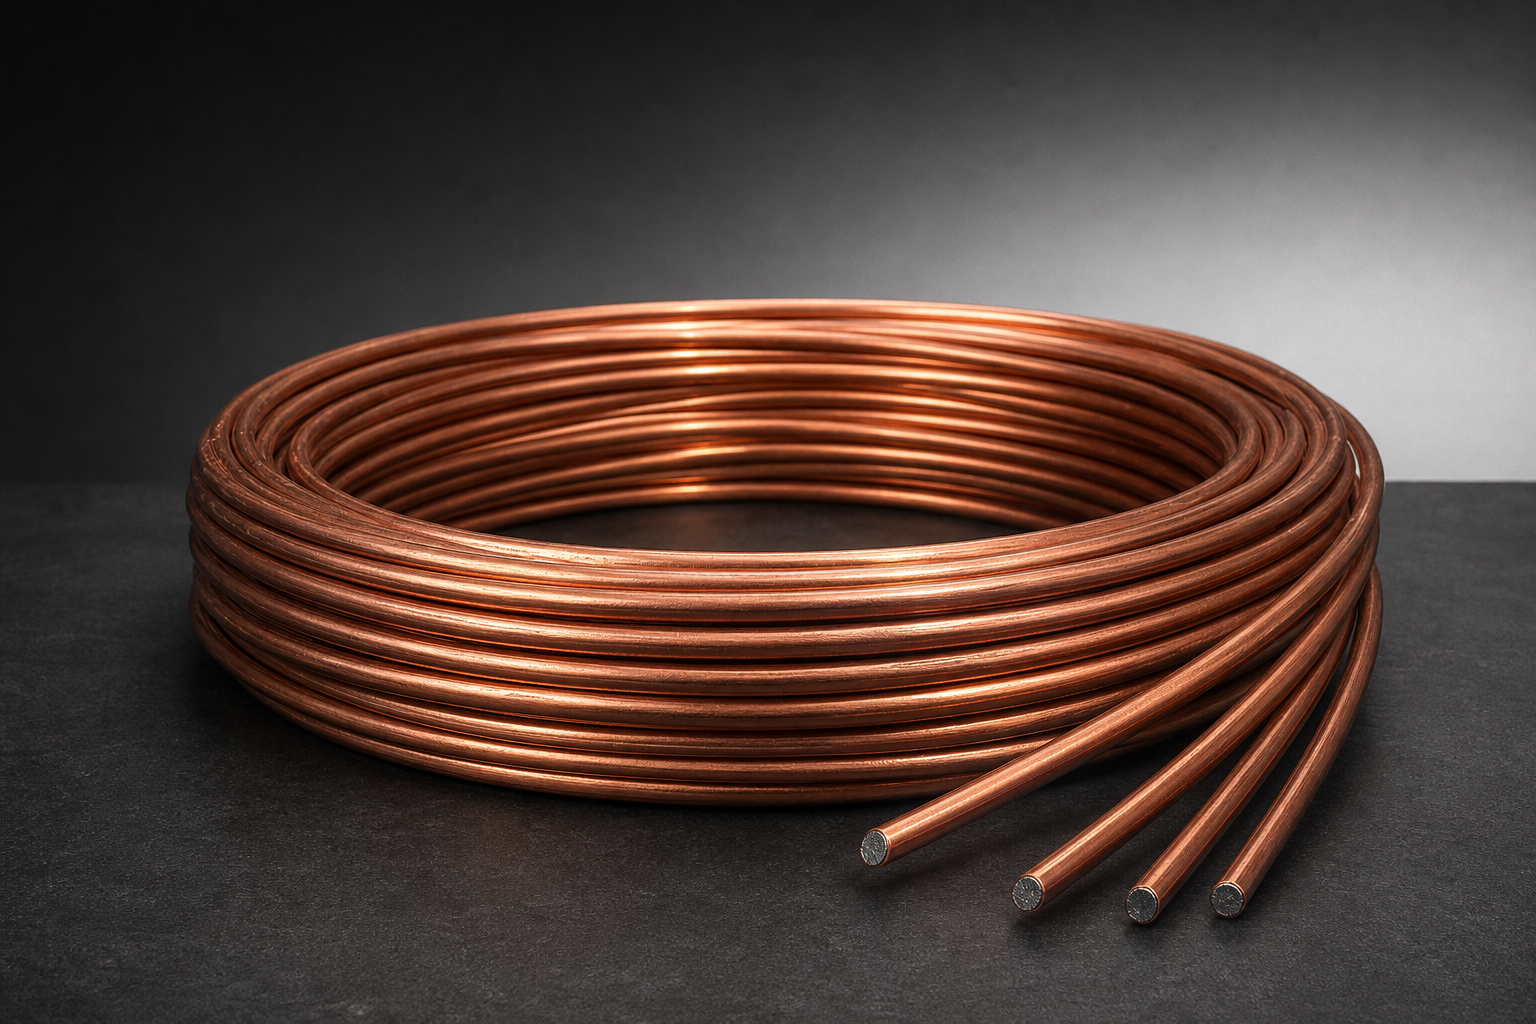
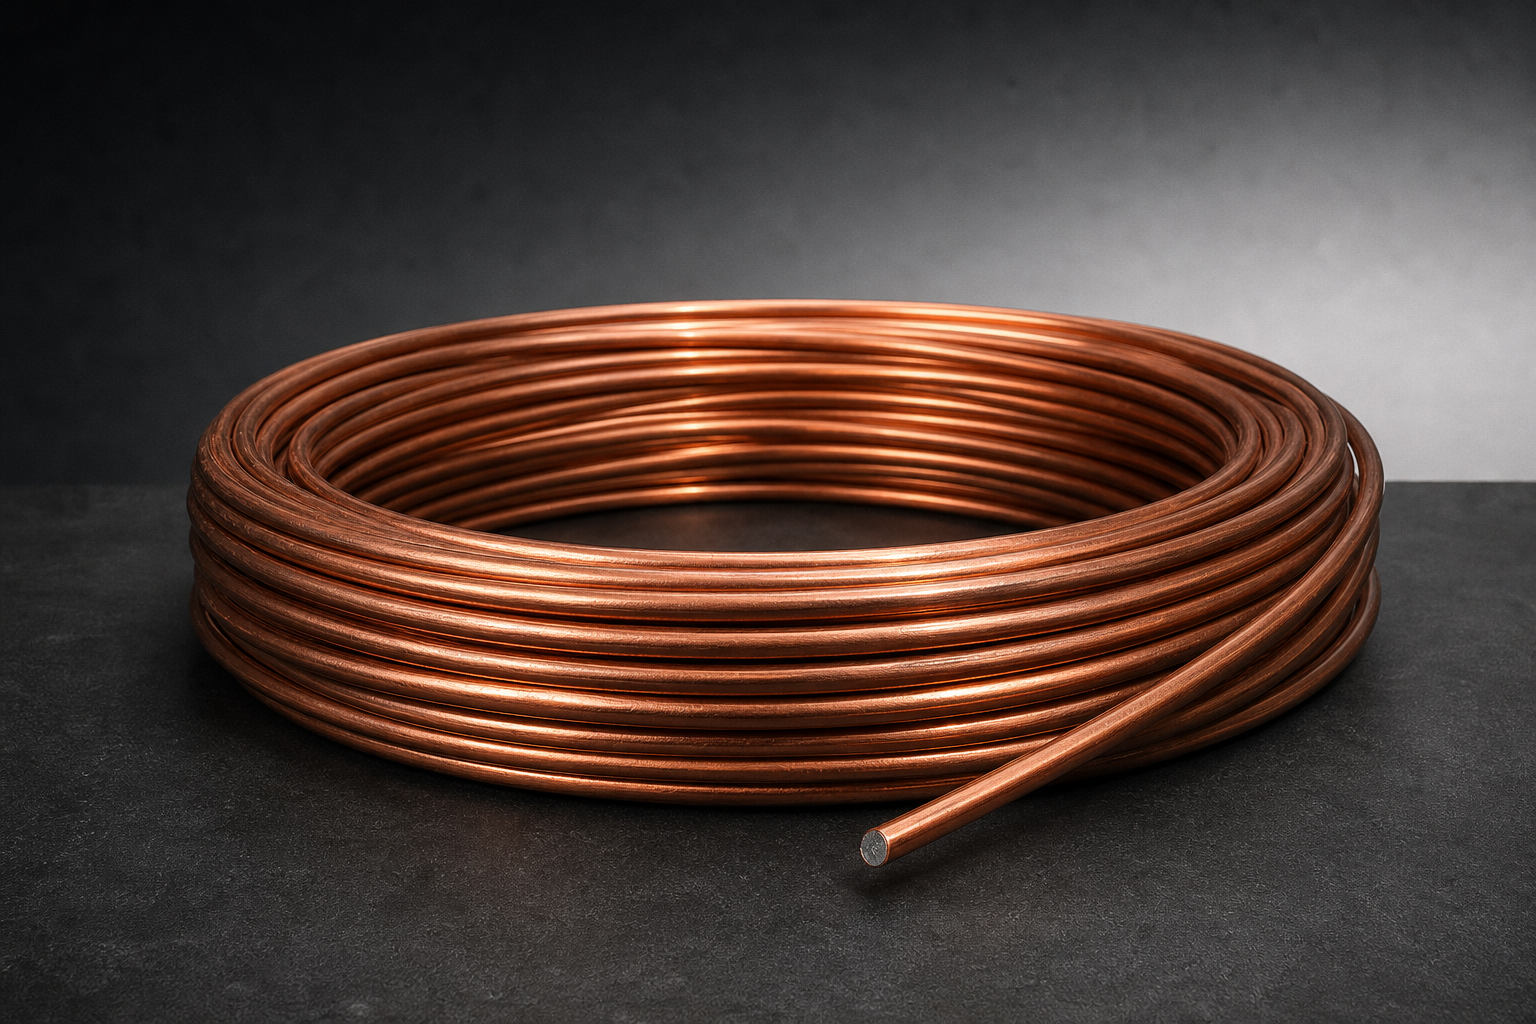
Replace CCA wire photo and increase product visual height
- Replaced product-cca-wire-user-photo.png with new single-end shot
- Increased product visual height from 280/320px to 420px to show
  more of the photo

diff --git a/styles.css b/styles.css
@@ -357,7 +357,7 @@ a {
 }
 
 .product-visual {
-  min-height: 280px;
+  min-height: 420px;
   position: relative;
   overflow: hidden;
   margin: 0;
@@ -372,7 +372,7 @@ a {
 .product-visual img {
   display: block;
   width: 100%;
-  height: 320px;
+  height: 420px;
   object-fit: cover;
   object-position: center;
   transition: